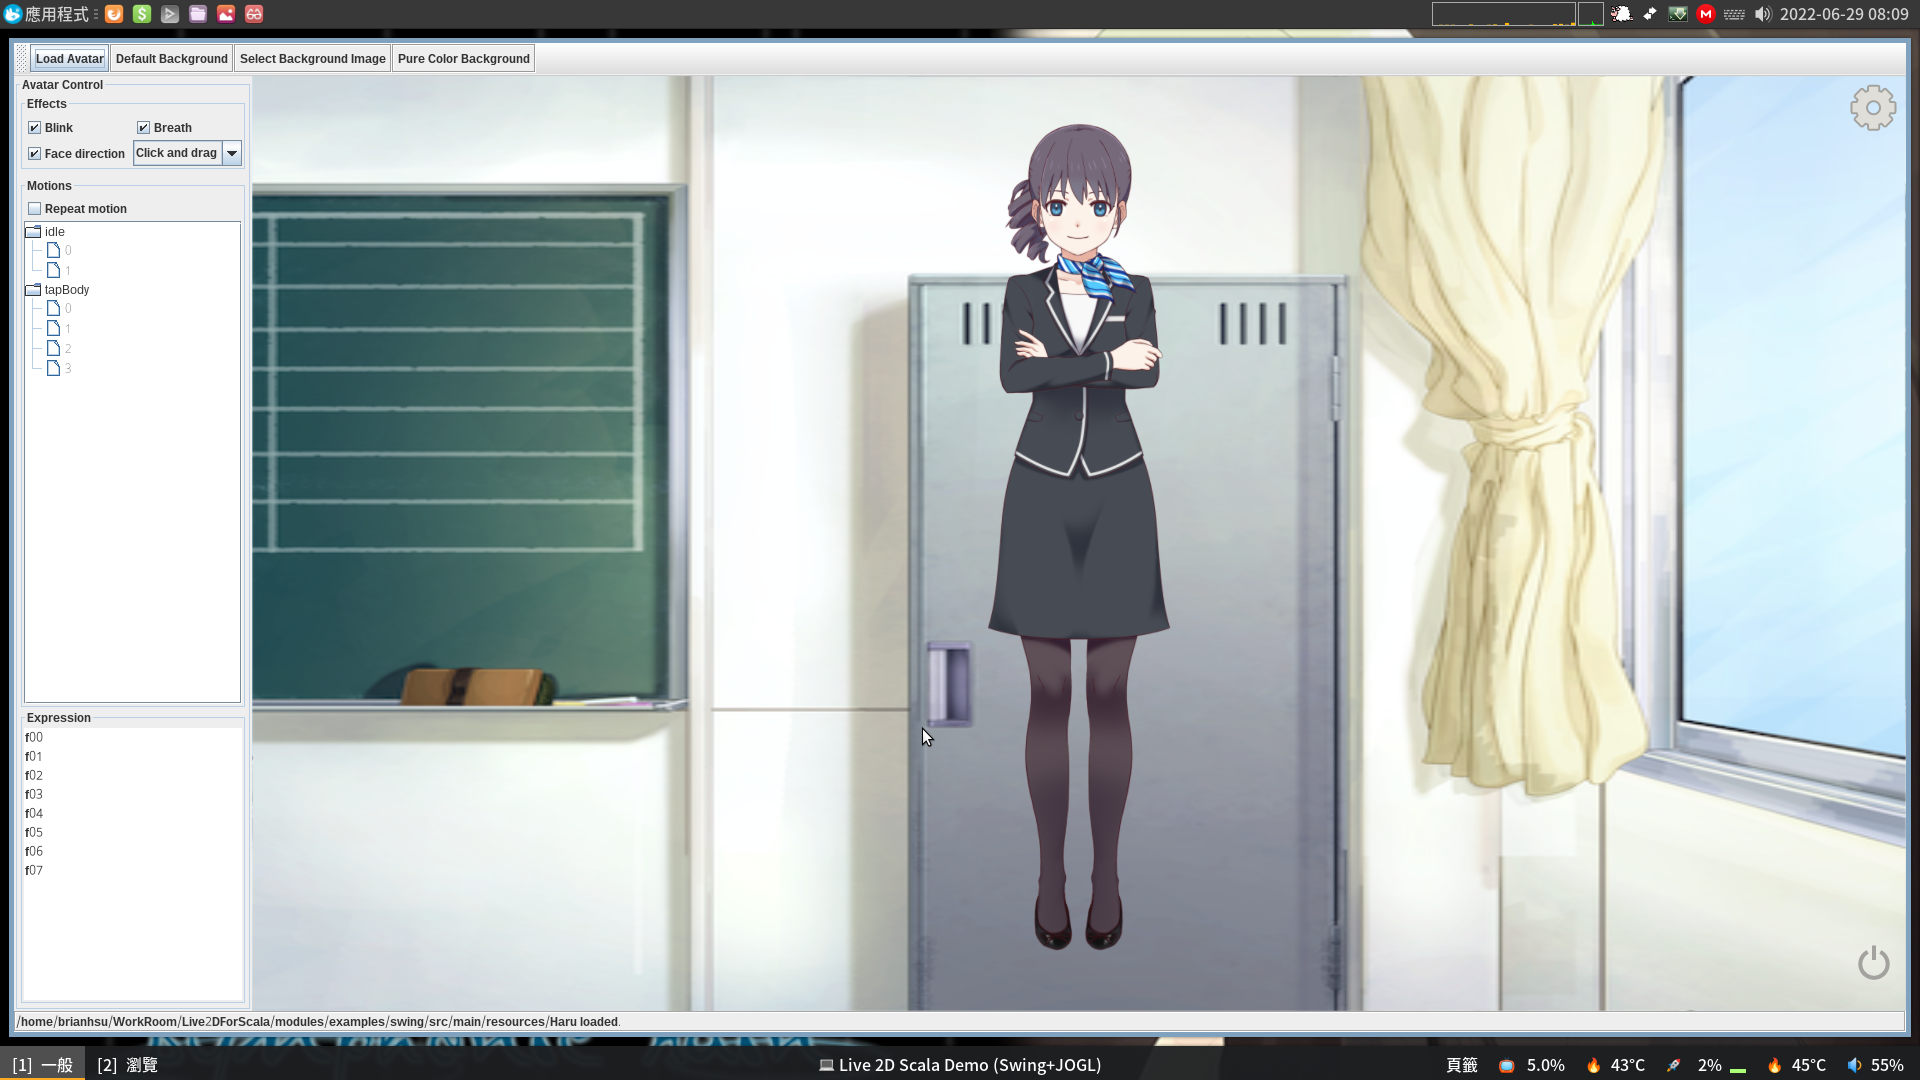
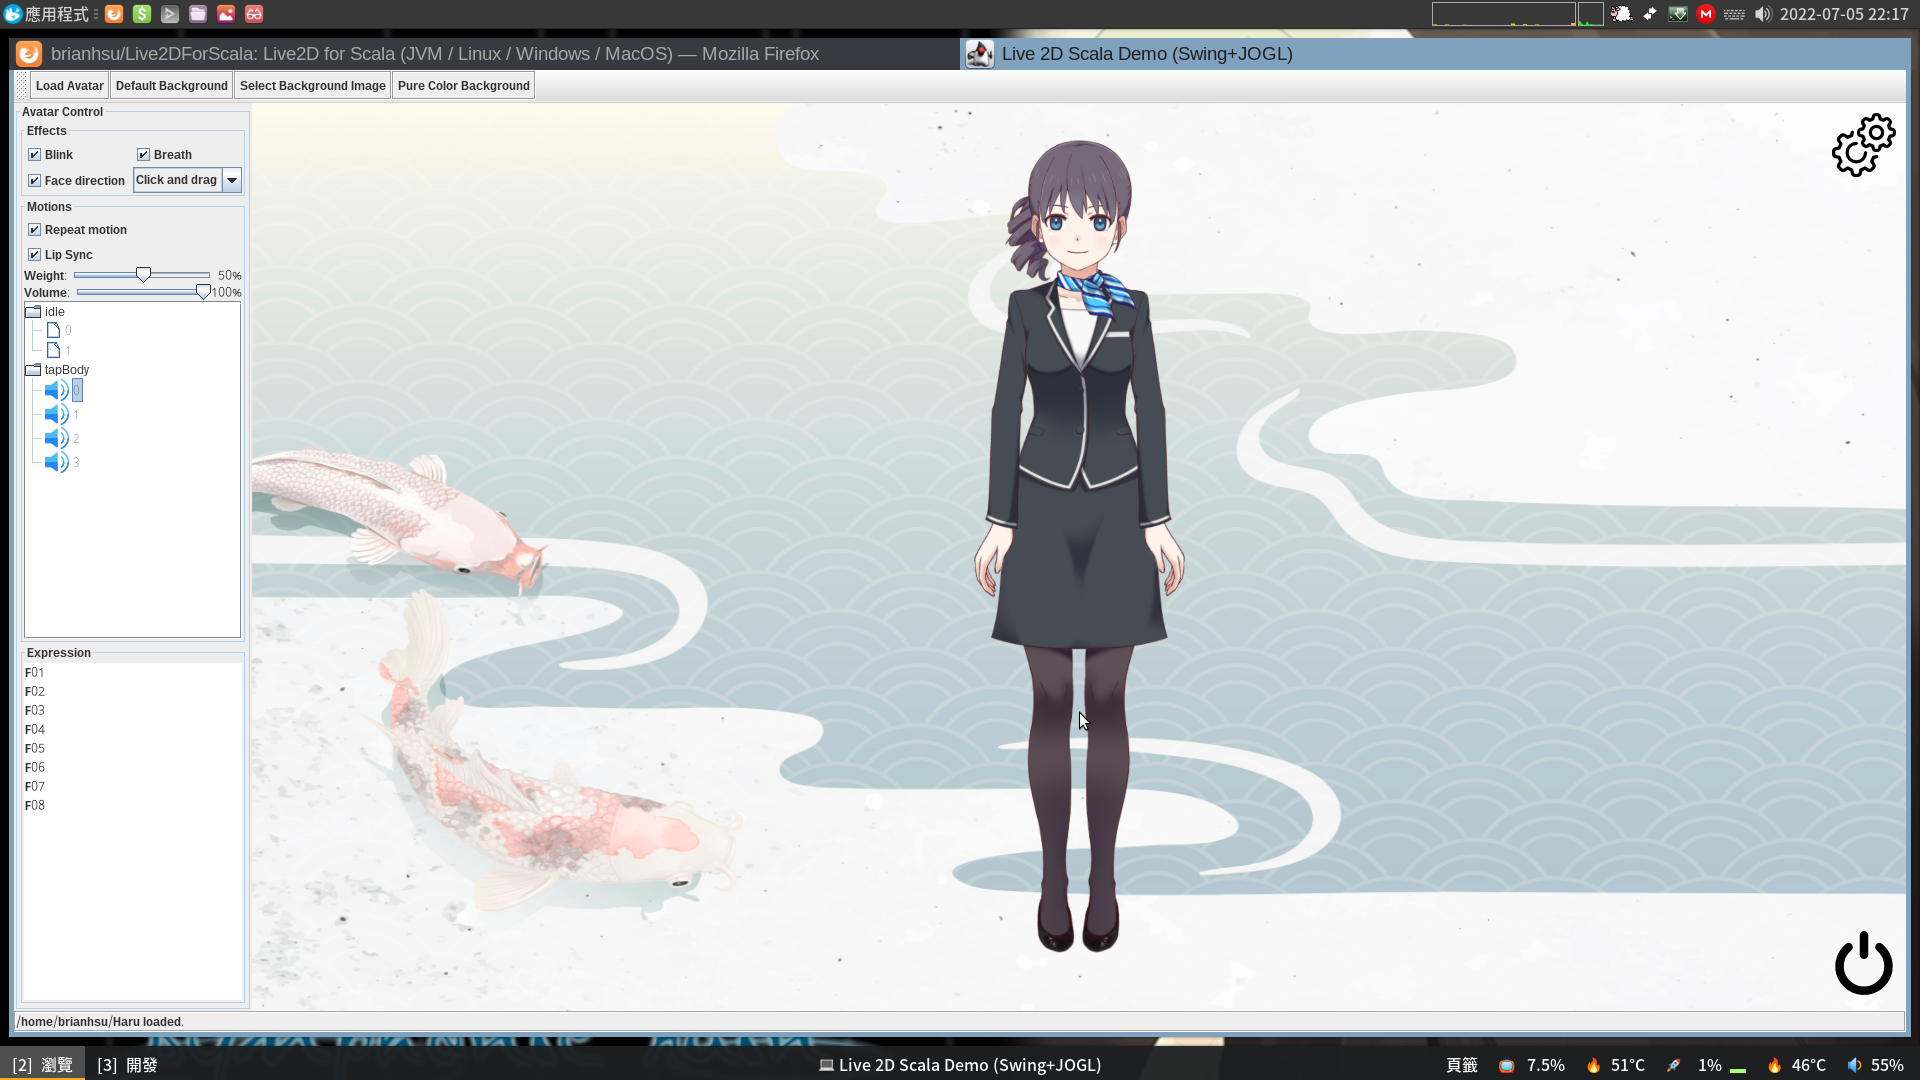
modify: Update README and screenshot.

diff --git a/README.md b/README.md
@@ -44,7 +44,7 @@ The following list shows features that this project currently supports or plan t
   - [x] Auto eye-blink
   - [x] Auto breath effect
   - [x] Face direction control by mouse
-  - [ ] Lip sync from .WAV file
+  - [x] Lip sync from .WAV file in the avatar motion
 
 ### Advance Feature
   - [ ] Lip sync from microphone
